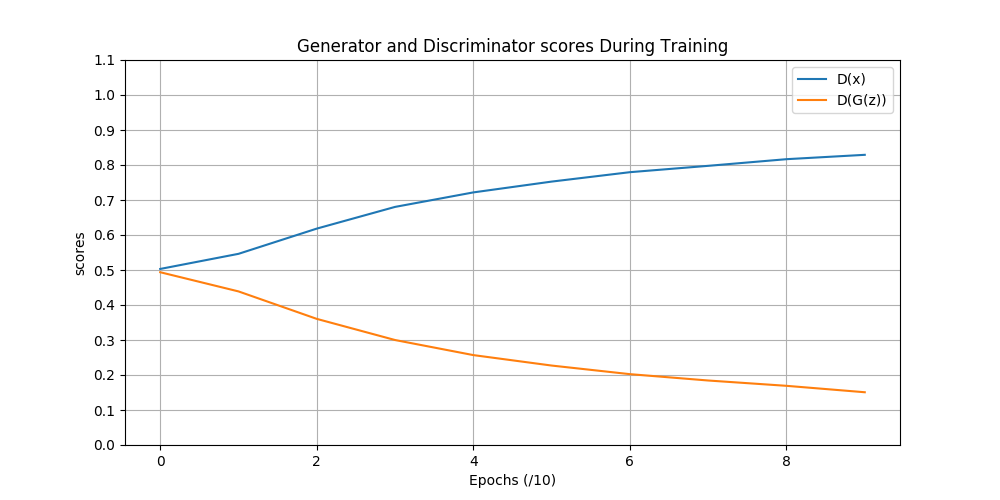
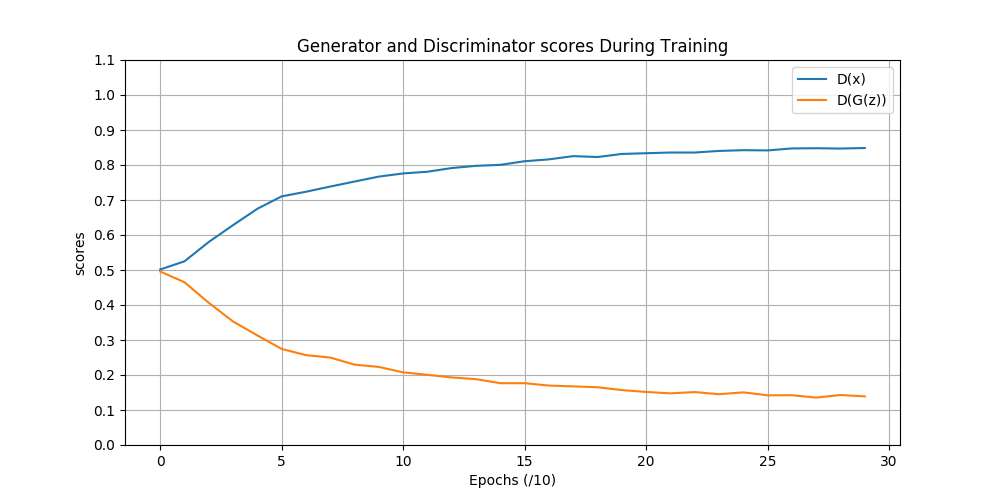
BugFix

diff --git a/W6_current_dcgan/dcgan.py b/W6_current_dcgan/dcgan.py
@@ -24,11 +24,11 @@ import matplotlib.pyplot as plt
 import time
 
 parser = argparse.ArgumentParser()
-parser.add_argument("-e", "--n_epochs", type=int, default=1000, help="number of epochs of training")
-parser.add_argument("-b", "--batch_size", type=int, default=32, help="size of the batches")
-parser.add_argument("--lrD", type=float, default=0.0004, help="adam: learning rate for D")
+parser.add_argument("-e", "--n_epochs", type=int, default=300, help="number of epochs of training")
+parser.add_argument("-b", "--batch_size", type=int, default=64, help="size of the batches")
+parser.add_argument("--lrD", type=float, default=0.00004, help="adam: learning rate for D")
 parser.add_argument("--lrG", type=float, default=0.0004, help="adam: learning rate for G")
-parser.add_argument("--eps", type=float, default=0.5, help="batchnorm: espilon for numerical stability")
+parser.add_argument("--eps", type=float, default=0.00005, help="batchnorm: espilon for numerical stability")
 parser.add_argument("--b1", type=float, default=0.5, help="adam: decay of first order momentum of gradient")
 parser.add_argument("--b2", type=float, default=0.999, help="adam: decay of first order momentum of gradient")
 parser.add_argument("--n_cpu", type=int, default=8, help="number of cpu threads to use during batch generation")
@@ -112,7 +112,7 @@ class Discriminator(nn.Module):
 		super(Discriminator, self).__init__()
 
 		def discriminator_block(in_filters, out_filters, bn=True):
-			block = [nn.Conv2d(in_filters, out_filters, 3, 2, 1), nn.LeakyReLU(0.2, inplace=True), nn.Dropout2d(0.25)]
+			block = [nn.Conv2d(in_filters, out_filters, 3, 2, 1), nn.LeakyReLU(0.2, inplace=True)]#, nn.Dropout2d(0.25)
 			if bn:
 				block.append(nn.BatchNorm2d(out_filters, opt.eps))
 			return block
@@ -126,7 +126,7 @@ class Discriminator(nn.Module):
 
 		# The height and width of downsampled image
 		ds_size = opt.img_size // 2 ** 4
-		self.adv_layer = nn.Sequential(nn.Linear(128 * ds_size ** 2, 1), nn.Sigmoid())
+		self.adv_layer = nn.Sequential(nn.Linear(128 * ds_size ** 2, 1))#, nn.Sigmoid()
 
 	def forward(self, img):
 		out = self.model(img)
@@ -135,10 +135,10 @@ class Discriminator(nn.Module):
 
 		return validity
 
-
 # Loss function
-adversarial_loss = torch.nn.BCELoss()
+adversarial_loss = torch.nn.BCEWithLogitsLoss()
 #pixelwise_loss = torch.nn.L1Loss()
+sigmoid = nn.Sigmoid()
 
 # Initialize generator and discriminator
 generator = Generator()
@@ -211,8 +211,10 @@ for epoch in range(1,opt.n_epochs+1):
 		optimizer_D.zero_grad()
 		
 		# Real batch
+		# Ajout d'un bruit au image  réels 
+		rand = Tensor(imgs.shape).normal_(0.0, 0.1)
 		#Discriminator descision
-		d_x = discriminator(real_imgs)
+		d_x = discriminator(real_imgs + rand)
 		# Measure discriminator's ability to classify real from generated samples
 		real_loss = adversarial_loss(d_x, valid)
 		# Backward
@@ -250,7 +252,11 @@ for epoch in range(1,opt.n_epochs+1):
 			"[Epoch %d/%d] [Batch %d/%d] [D loss: %f] [G loss: %f] [Time: %fs]"
 			% (epoch, opt.n_epochs, i+1, len(dataloader), d_loss.item(), g_loss.item(), time.time()-t_batch)
 		)
-	
+		
+		# Compensation pour le BCElogits
+		d_x = sigmoid(d_x)
+		d_g_x = sigmoid(d_g_x)
+		
 		# Save Losses and scores for plotting later
 		g_losses.append(g_loss.item())
 		d_losses.append(d_loss.item())
